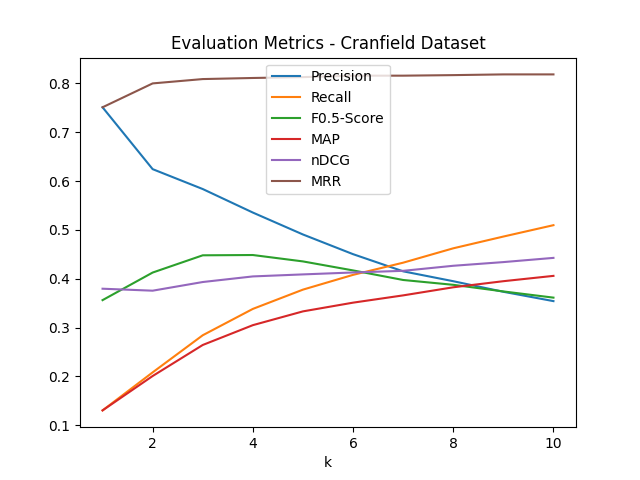
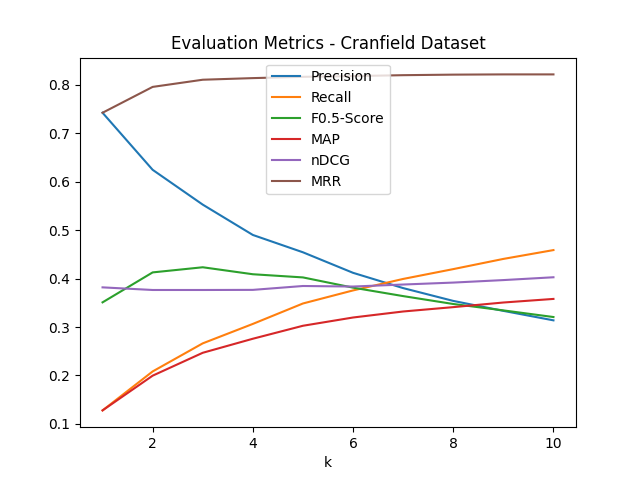
updates

diff --git a/template_code_part2/main.py b/template_code_part2/main.py
@@ -141,14 +141,17 @@ class SearchEngine:
 
         processedDocs = self.preprocessDocs(docs)
         
+        self.informationRetriever.setFeedback(self.args.model == "improved")
+
         start_time = time.time()
         self.informationRetriever.buildIndex(processedDocs, doc_ids)
         doc_IDs_ordered = self.informationRetriever.rank(processedQueries)
         end_time = time.time()
 
-        print("Runtime of IR system:", end_time - start_time, "seconds")
-
         qrels = json.load(open(os.path.join(args.dataset, "cran_qrels.json"), 'r'))[:]
+
+        print("Model:", self.args.model)
+        print("Runtime of IR system:", end_time - start_time, "seconds")
 
         precisions, recalls, fscores, MAPs, nDCGs, MRRs = [], [], [], [], [], []
 
@@ -187,6 +190,40 @@ class SearchEngine:
         plt.xlabel("k")
         plt.savefig(os.path.join(args.out_folder, "eval_plot.png"))
 
+    def compareModels(self):
+        queries_json = json.load(open(os.path.join(args.dataset, "cran_queries.json"), 'r'))[:]
+        query_ids = [item["query number"] for item in queries_json]
+        queries = [item["query"] for item in queries_json]
+        processedQueries = self.preprocessQueries(queries)
+
+        docs_json = json.load(open(os.path.join(args.dataset, "cran_docs.json"), 'r'))[:]
+        doc_ids = [item["id"] for item in docs_json]
+        docs = [
+            item["title"] + " " + item["title"] + " " + item["body"]
+            for item in docs_json
+        ]
+        processedDocs = self.preprocessDocs(docs)
+        qrels = json.load(open(os.path.join(args.dataset, "cran_qrels.json"), 'r'))[:]
+
+        print("Model, Runtime, Precision@10, Recall@10, F0.5@10, MAP@10, nDCG@10, MRR@10")
+        for model_name, feedback_enabled in [("baseline_tfidf", False), ("improved_prf", True)]:
+            self.informationRetriever = InformationRetrieval()
+            self.informationRetriever.setFeedback(feedback_enabled)
+
+            start_time = time.time()
+            self.informationRetriever.buildIndex(processedDocs, doc_ids)
+            doc_IDs_ordered = self.informationRetriever.rank(processedQueries)
+            runtime = time.time() - start_time
+
+            precision = self.evaluator.meanPrecision(doc_IDs_ordered, query_ids, qrels, 10)
+            recall = self.evaluator.meanRecall(doc_IDs_ordered, query_ids, qrels, 10)
+            fscore = self.evaluator.meanFscore(doc_IDs_ordered, query_ids, qrels, 10)
+            MAP = self.evaluator.meanAveragePrecision(doc_IDs_ordered, query_ids, qrels, 10)
+            nDCG = self.evaluator.meanNDCG(doc_IDs_ordered, query_ids, qrels, 10)
+            MRR = self.evaluator.meanReciprocalRank(doc_IDs_ordered, query_ids, qrels, 10)
+
+            print(f"{model_name}, {runtime}, {precision}, {recall}, {fscore}, {MAP}, {nDCG}, {MRR}")
+
     def handleCustomQuery(self):
 
         print("Enter query below")
@@ -220,13 +257,17 @@ if __name__ == "__main__":
     parser.add_argument('-out_folder', default="output/")
     parser.add_argument('-segmenter', default="punkt")
     parser.add_argument('-tokenizer', default="naive")
+    parser.add_argument('-model', default="improved", choices=["baseline", "improved"])
+    parser.add_argument('-compare', action="store_true")
     parser.add_argument('-custom', action="store_true")
 
     args = parser.parse_args()
 
     searchEngine = SearchEngine(args)
 
-    if args.custom:
+    if args.compare:
+        searchEngine.compareModels()
+    elif args.custom:
         searchEngine.handleCustomQuery()
     else:
         searchEngine.evaluateDataset()

diff --git a/template_code_part2/informationRetrieval.py b/template_code_part2/informationRetrieval.py
@@ -2,7 +2,7 @@ from util import *
 
 # Add your import statements here
 import math
-from collections import Counter
+from collections import Counter, defaultdict
 
 
 class InformationRetrieval():
@@ -13,6 +13,7 @@ class InformationRetrieval():
 		self.doc_ids = []
 		self.doc_vectors = {}
 		self.doc_norms = {}
+		self.term_doc_weights = {}
 		self.idf = {}
 		self.vocabulary = set()
 		self.doc_term_counts = {}
@@ -21,6 +22,7 @@ class InformationRetrieval():
 		self.feedback_docs = 2
 		self.query_alpha = 1.4
 		self.feedback_beta = 0.4
+		self.use_feedback = True
 
 	def _flatten(self, text):
 		terms = []
@@ -82,13 +84,16 @@ class InformationRetrieval():
 
 		self.doc_vectors = {}
 		self.doc_norms = {}
+		self.term_doc_weights = defaultdict(dict)
 
 		for doc_id, term_counts in self.doc_term_counts.items():
 			vector = {}
 
 			for term, count in term_counts.items():
 				tf = 1.0 + math.log(count)
-				vector[term] = tf * self.idf[term]
+				weight = tf * self.idf[term]
+				vector[term] = weight
+				self.term_doc_weights[term][doc_id] = weight
 
 			norm = math.sqrt(sum(weight * weight for weight in vector.values()))
 			self.doc_vectors[doc_id] = vector
@@ -99,7 +104,8 @@ class InformationRetrieval():
 			"document_frequency": dict(document_frequency),
 			"idf": self.idf,
 			"doc_vectors": self.doc_vectors,
-			"doc_norms": self.doc_norms
+			"doc_norms": self.doc_norms,
+			"term_doc_weights": dict(self.term_doc_weights)
 		}
 
 
@@ -126,21 +132,23 @@ class InformationRetrieval():
 			if query_norm == 0:
 				query_norm = 1e-6
 
+			dot_products = defaultdict(float)
+
+			# Use the inverted TF-IDF index so only documents sharing query
+			# terms are scored. Documents with zero score are appended later.
+			for term, q_weight in query_vector.items():
+				for doc_id, doc_weight in self.term_doc_weights.get(term, {}).items():
+					dot_products[doc_id] += q_weight * doc_weight
+
 			scores = []
-
-			for doc_id in self.doc_ids:
-				doc_vector = self.doc_vectors[doc_id]
-				dot_product = 0.0
-
-				for term, q_weight in query_vector.items():
-					if term in doc_vector:
-						dot_product += q_weight * doc_vector[term]
-
+			scored_doc_ids = set(dot_products.keys())
+			for doc_id, dot_product in dot_products.items():
 				score = dot_product / (query_norm * self.doc_norms[doc_id])
 				scores.append((doc_id, score))
 
 			scores.sort(key=lambda x: (-x[1], x[0]))
-			return scores
+			zero_score_docs = [(doc_id, 0.0) for doc_id in self.doc_ids if doc_id not in scored_doc_ids]
+			return scores + zero_score_docs
 
 		doc_IDs_ordered = []
 
@@ -159,6 +167,10 @@ class InformationRetrieval():
 				query_vector[term] = tf * self.idf[term]
 
 			scores = score_documents(query_vector)
+
+			if not self.use_feedback:
+				doc_IDs_ordered.append([doc_id for doc_id, _ in scores])
+				continue
 
 			# Rocchio-style pseudo-relevance feedback:
 			# expand the original query using the average TF-IDF vector of the
@@ -181,3 +193,13 @@ class InformationRetrieval():
 			doc_IDs_ordered.append([doc_id for doc_id, _ in scores])
 
 		return doc_IDs_ordered
+
+
+	def setFeedback(self, enabled):
+		"""
+		Enable or disable pseudo-relevance feedback.
+		This lets main.py compare the basic TF-IDF VSM against the improved
+		system without changing code between runs.
+		"""
+
+		self.use_feedback = enabled
